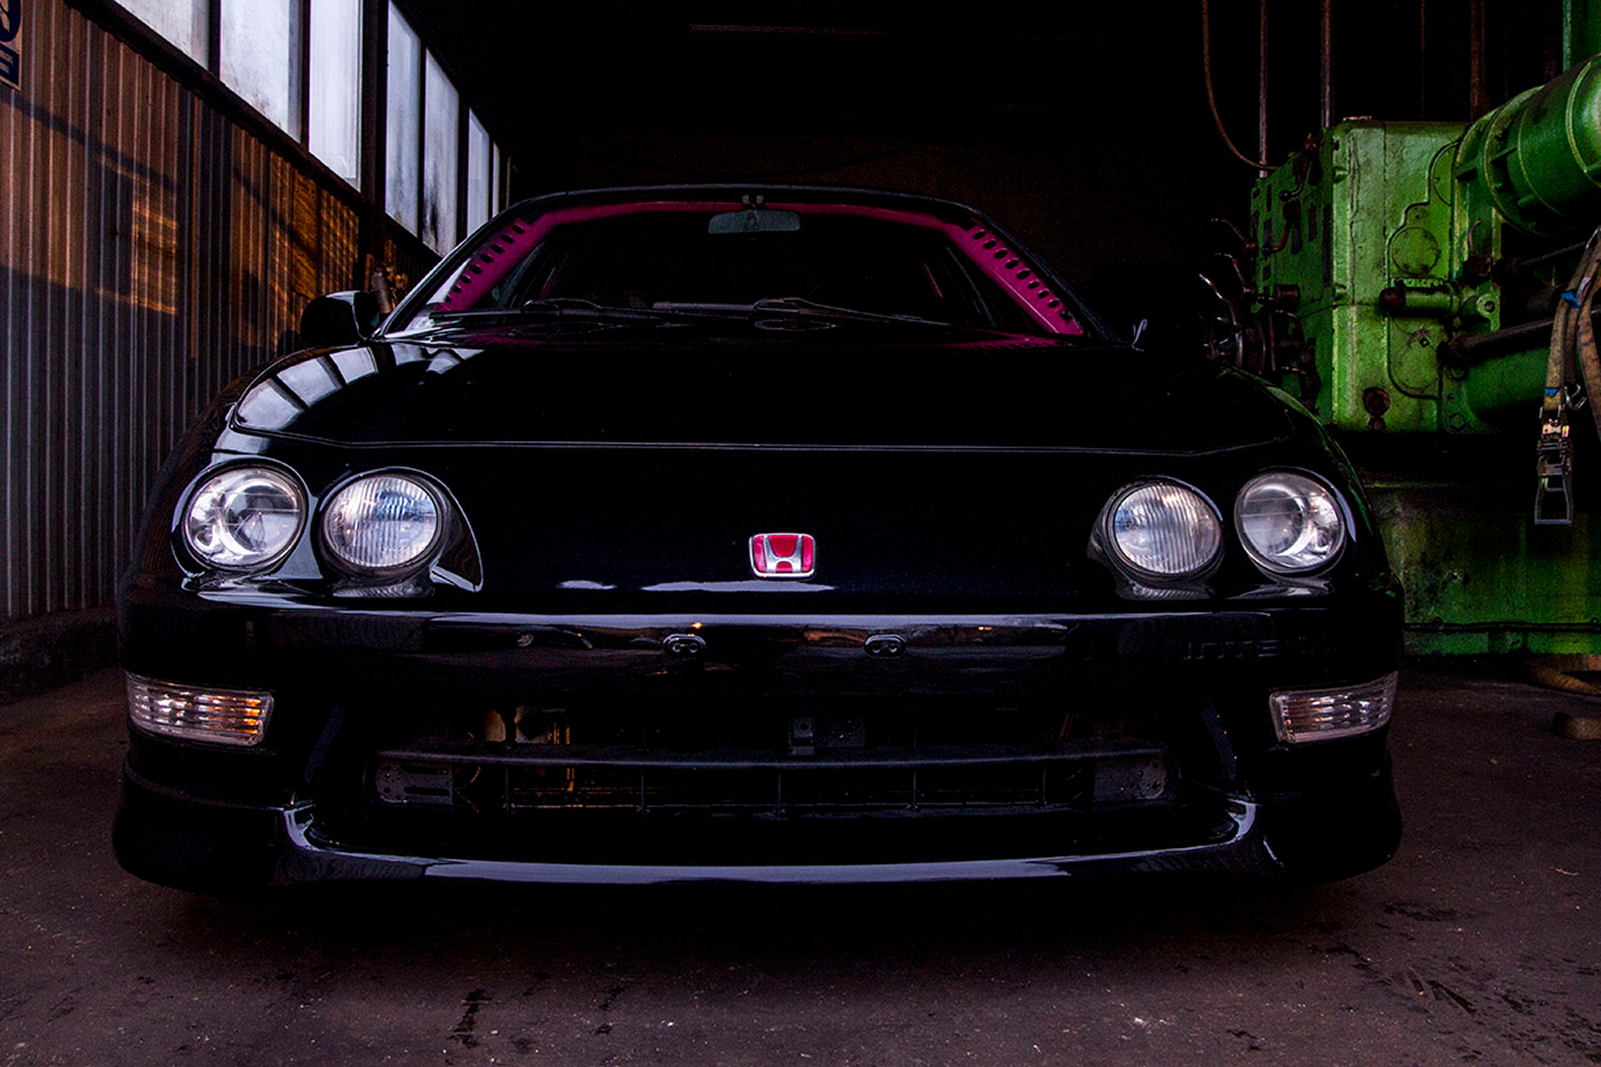
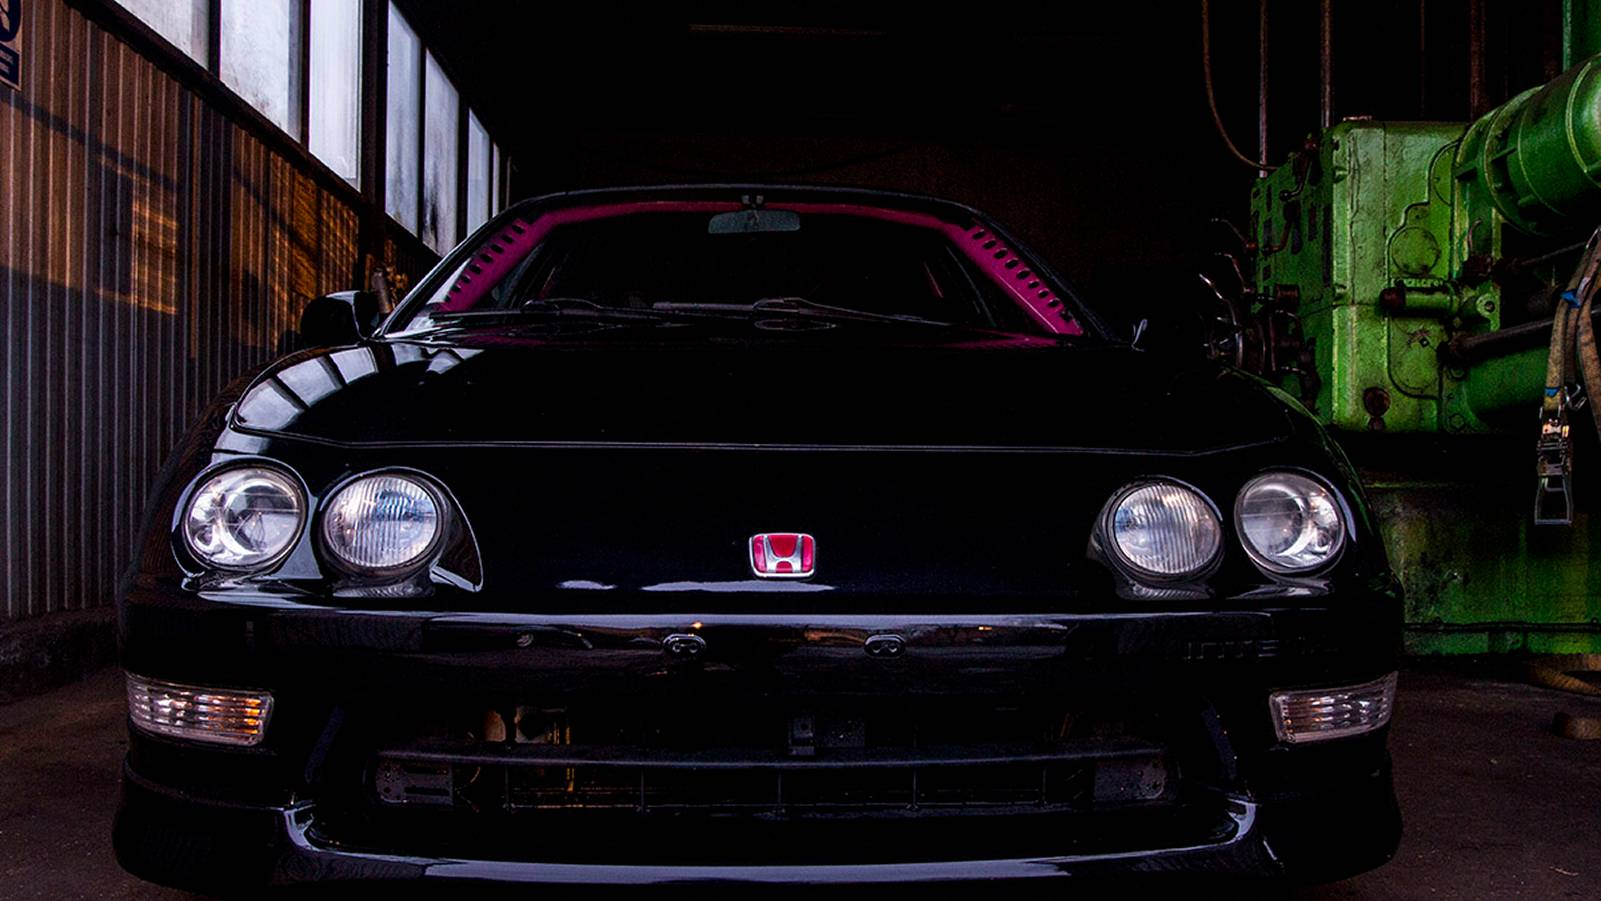
feature: :sparkles: add projects section

diff --git a/app/utils/projectCards.ts b/app/utils/projectCards.ts
@@ -2,35 +2,94 @@ import { FlippingCardProps } from "../components/flippingCard";
 
 export const projectCards: FlippingCardProps[] = [
   {
-    srcFront: "project_acura-rsx-k20_after.jpg",
-    srcBack: "project_acura-rsx-k20_before.jpg",
+    front: {
+      src: "project_acura-rsx-k20_after.jpg",
+      blurHash: "LDBWe~Rj00%MNFoextt700%L~qM{",
+    },
+    back: {
+      blurHash: "LOBpnRI9t7Rj~pM{RPae-pR.M{WB",
+      src: "project_acura-rsx-k20_before.jpg",
+    },
   },
   {
-    srcFront: "project_smart-roadster-k20_after.jpg",
-    srcBack: "project_smart-roadster-k20_before.jpg",
+    front: {
+      src: "project_smart-roadster-k20_after.jpg",
+      blurHash: "LFGIDmxZ?b?v~W-;%g%g?bkD-:Wr",
+    },
+    back: {
+      src: "project_smart-roadster-k20_before.jpg",
+      blurHash: "L2AmrB8w00t-9yZ3]p*000r@4T?v",
+    },
   },
   {
-    srcFront: "project_honda-del-sol-k20-indy-yellow_after.jpg",
-    srcBack: "project_honda-del-sol-k20-indy-yellow_before.jpg",
+    front: {
+      src: "project_honda-del-sol-k20-indy-yellow_after.jpg",
+      blurHash: "L4ELybbtR;xT000pDO-h0IrW-oJr",
+    },
+    back: {
+      src: "project_honda-del-sol-k20-indy-yellow_before.jpg",
+      blurHash: "L7CQGF00VpIA.lxHD$ozXRxDtm%M",
+    },
   },
   {
-    srcFront: "project_acura-rsx-k20-time-attack_after.jpg",
-    srcBack: "project_acura-rsx-k20-time-attack_before.jpg",
+    front: {
+      src: "project_honda-integra-type-r-k20-time-attack_after.jpg",
+      blurHash: "L4ELybbtR;xT000pDO-h0IrW-oJr",
+    },
+    back: {
+      src: "project_honda-integra-type-r-k20-time-attack_before.jpg",
+      blurHash: "L7CQGF00VpIA.lxHD$ozXRxDtm%M",
+    },
+  },
+
+  {
+    front: {
+      src: "project_honda-integra-type-r-k24_after.jpg",
+      blurHash: "LAB3=~n~00IV~ps,9GM|9FxZo#NG",
+    },
+    back: {
+      src: "project_honda-integra-type-r-k24_before.jpg",
+      blurHash: "LFEC]#9Y0J?bxNRiDi%2D$xvxcIT",
+    },
   },
   {
-    srcFront: "project_honda-civic_after.jpg",
-    srcBack: "project_honda-civic_before.jpg",
+    front: {
+      src: "project_honda-civic_after.jpg",
+      blurHash: "LHF5~vxs~pD*%Lt7t8M{oZM}M|oc",
+    },
+    back: {
+      src: "project_honda-civic_before.jpg",
+      blurHash: "LLGSA3S|$^fg%.t1W9S2}~rrNLoh",
+    },
   },
   {
-    srcFront: "project_honda-integra-type-r-k20-time-attack_after.jpg",
-    srcBack: "project_honda-integra-type-r-k20-time-attack_before.jpg",
+    front: {
+      src: "project_acura-rsx-k20-time-attack_after.jpg",
+      blurHash: "L45;]w^-?aa0.8?J%MRPxa%MxaV?",
+    },
+    back: {
+      src: "project_acura-rsx-k20-time-attack_before.jpg",
+      blurHash: "LWH2cqof~qogRjRj%2j[-;WBWBs:",
+    },
   },
   {
-    srcFront: "project_lotus_after.jpg",
-    srcBack: "project_lotus_before.jpg",
+    front: {
+      src: "project_lotus_after.jpg",
+      blurHash: "LcIER;IobvxZ?wi_aKW;KjxusoRk",
+    },
+    back: {
+      src: "project_lotus_before.jpg",
+      blurHash: "LMFNh%-TAZoe0$X7,DR+|[aLEhWC",
+    },
   },
   {
-    srcFront: "project_s2000-k20_after.jpg",
-    srcBack: "project_s2000-k20_before.jpg",
+    front: {
+      src: "project_s2000-k20_after.jpg",
+      blurHash: "LMEMOe9c~4nfISV[NGs:9D$iETS5",
+    },
+    back: {
+      src: "project_s2000-k20_before.jpg",
+      blurHash: "LCDvZh_NEL_3DiIoR-M{8_-;?cIU",
+    },
   },
 ];

diff --git a/app/projects.tsx b/app/projects.tsx
@@ -3,12 +3,13 @@ import Image from "next/image";
 import FlippingCard from "./components/flippingCard";
 import { projectCards } from "./utils/projectCards";
 import { If, Show } from "multi-condition";
+import Button, { ButtonVariant } from "./components/button";
 
 const Projects: FC = () => {
   const [shouldShowMore, setShouldShowMore] = useState(false);
 
   return (
-    <section className="mt-big-m w-full h-auto">
+    <section className="mt-[10vh] w-full h-auto scroll-mt-[10vh]" id="realizacje">
       <div className="isolate relative w-full h-auto">
         <Image
           className="z-1"
@@ -16,7 +17,6 @@ const Projects: FC = () => {
           alt="Arrows pointing to the right"
           width={768}
           height={512}
-          objectFit="contain"
         />
         <Image
           className="top-0 left z-2 absolute"
@@ -30,28 +30,22 @@ const Projects: FC = () => {
         </h1>
       </div>
       <div className="gap-little-l md:gap-little-xxl grid grid-cols-1 md:grid-cols-2 md:mt-big-s px-little-l md:px-big-s pt-big-xl">
-        {(shouldShowMore ? projectCards : projectCards.slice(0, 2)).map(
-          (card) => (
-            <FlippingCard
-              key={projectCards.indexOf(card)}
-              srcFront={card.srcFront}
-              srcBack={card.srcBack}
-            />
-          )
-        )}
+        {(shouldShowMore
+          ? projectCards.slice(0, Math.trunc(projectCards.length / 2) * 2)
+          : projectCards.slice(0, 2)
+        ).map((card) => (
+          <FlippingCard
+            key={projectCards.indexOf(card)}
+            front={card.front}
+            back={card.back}
+          />
+        ))}
       </div>
       <Show>
         <If condition={!shouldShowMore}>
-        <div className="flex justify-center pt-big-s w-full">
-          <button
-            className="bg-primary hover:bg-primary-dark hover:bg-primary-dark mx-auto mt-big-s p-little-s rounded-md transition duration-300 ease"
-            onClick={() =>
-              setShouldShowMore((shouldShowMore) => !shouldShowMore)
-            }
-          >
-            Pokaż Więcej
-          </button>
-        </div>
+          <div className="flex justify-center pt-little-l w-full">
+            <Button onClick={() => setShouldShowMore((shouldShowMore) => !shouldShowMore)} label="Pokaż Więcej" variant={ButtonVariant.SECONDARY} />
+          </div>
         </If>
       </Show>
     </section>

diff --git a/app/components/flippingCard.tsx b/app/components/flippingCard.tsx
@@ -1,32 +1,35 @@
-import Image from "next/image";
+"use client";
 import { FC } from "react";
+import { LazyImage } from "./lazyImage";
 
-export interface FlippingCardProps {
-  srcFront: string;
-  srcBack: string;
-  flexBasis?: string;
+interface ImageCard {
+  src: string;
+  blurHash: string;
 }
 
-const FlippingCard: FC<FlippingCardProps> = ({ srcFront, srcBack }) => {
+export interface FlippingCardProps {
+  front: ImageCard;
+  back: ImageCard;
+}
+
+const FlippingCard: FC<FlippingCardProps> = ({ front, back }) => {
   return (
     <div className={`group mx-auto w-full perspective`}>
       <div className="relative w-full transform-style-3d group-hover:rotate-y-180 transition-transform duration-500">
         <div className="inset-1 flex justify-center items-center min-h-[200px] md:min-h-[300px] xl:min-h-[400px] overflow-hidden backface-hidden">
-          <Image
-            src={srcFront}
-            alt="Front Side"
-            layout="fill"
-            objectFit="cover"
+          <LazyImage
+            src={front.src}
+            alt="Card front Side - after"
             className="rounded-xl"
+            blurHash={front.blurHash}
           />
         </div>
         <div className="absolute inset-1 flex justify-center items-center rounded-lg min-h-[200px] md:min-h-[300px] xl:min-h-[400px] rotate-y-180 backface-hidden">
-          <Image
-            src={srcBack}
-            alt="Back Side"
-            layout="fill"
-            objectFit="cover"
+          <LazyImage
+            src={back.src}
+            alt="Card Back Side - before"
             className="rounded-xl"
+            blurHash={back.blurHash}
           />
         </div>
       </div>

diff --git a/app/components/lazyImage.tsx b/app/components/lazyImage.tsx
@@ -1,0 +1,45 @@
+import { useState } from "react";
+import Image from "next/image";
+import { Blurhash } from "react-blurhash";
+
+export const LazyImage = ({
+  src,
+  alt,
+  className,
+  blurHash,
+}: {
+  src: string;
+  alt: string;
+  className: string;
+  blurHash: string;
+}) => {
+  const [isLoaded, setIsLoaded] = useState(false);
+
+  return (
+    <>
+      <Image
+        src={src}
+        alt={alt}
+        layout="fill"
+        objectFit="cover"
+        className={`transition ease 300ms rounded-xl ${
+          isLoaded ? "opacity-100" : "translate-y-3 opacity-0 z-5"
+        } ${className}`}
+        onLoad={() => setIsLoaded(true)}
+      />
+      <div className="top-0 left-0 absolute rounded-xl w-full h-full overflow-hidden">
+        <Blurhash
+          hash={blurHash}
+          width={800}
+          height={600}
+          resolutionX={32}
+          resolutionY={32}
+          punch={1}
+          className={`w-full h-full transition ease 300ms ${
+            isLoaded ? "opacity-0 translate-y-3" : "opacity-50 z-10"
+          }`}
+        />
+      </div>
+    </>
+  );
+};

diff --git a/app/components/button.tsx b/app/components/button.tsx
@@ -1,0 +1,26 @@
+import { FC } from "react";
+
+export enum ButtonVariant {
+  PRIMARY = "primary",
+  SECONDARY = "secondary",
+}
+
+interface ButtonProps {
+  onClick: () => void;
+  label: string;
+  variant?: ButtonVariant;
+}
+
+const Button: FC<ButtonProps> = ({ onClick, label, variant = ButtonVariant.PRIMARY }) => {
+    const variantClass = variant === ButtonVariant.PRIMARY ? "bg-primary hover:bg-primary-dark" : "bg-secondary hover:bg-secondary-dark";
+    return (
+    <button
+      className={`${variantClass} mx-auto mt-big-s p-little-s rounded-md transition duration-300 ease`}
+      onClick={onClick}
+    >
+      {label}
+    </button>
+  );
+};
+
+export default Button;

diff --git a/app.js b/app.js
@@ -1,0 +1,18 @@
+const blurhash = require("blurhash");
+console.log(blurhash)
+function decodeBlurHash(hash) { 
+	const pixels = blurhash.decode(hash, 32, 32); const canvas = document.createElement("canvas");
+  canvas.width = 32;
+  canvas.height = 32;
+  const ctx = canvas.getContext("2d");
+
+  if (ctx) {
+    const imageData = ctx.createImageData(32, 32);
+    imageData.data.set(pixels);
+    ctx.putImageData(imageData, 0, 0);
+  }
+
+  return canvas.toDataURL();
+}
+
+console.log(decodeBlurHash("L7CQGF00VpIA.lxHD$ozXRxDtm%M"))

diff --git a/app/page.tsx b/app/page.tsx
@@ -9,10 +9,9 @@ export default function Home() {
         <Image
           src="hero-image.jpg"
           alt="Racing custom car with K22 engine"
-          layout="responsive"
           width={1920}
           height={1080}
-          objectFit="contain"
+          className="w-full h-full object-cover"
         />
       </section>
       <Projects />
